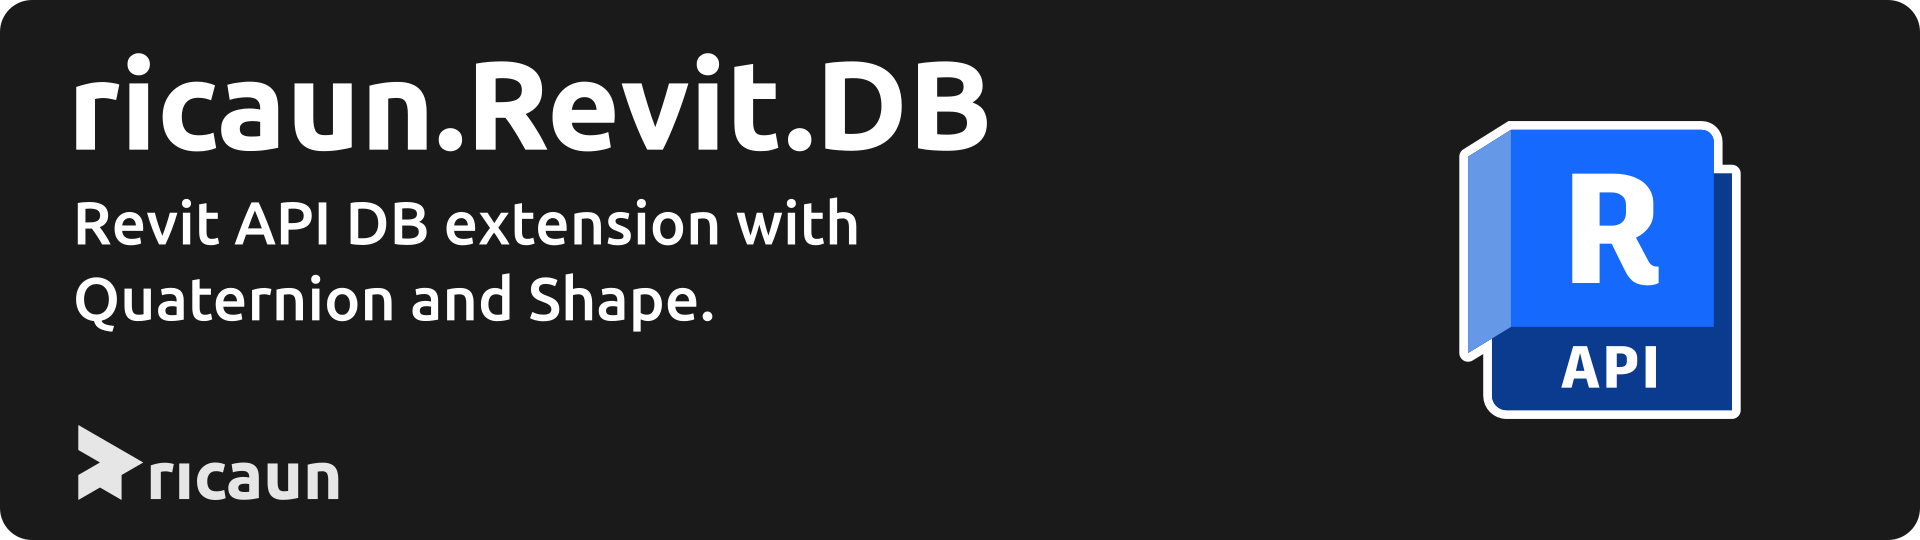
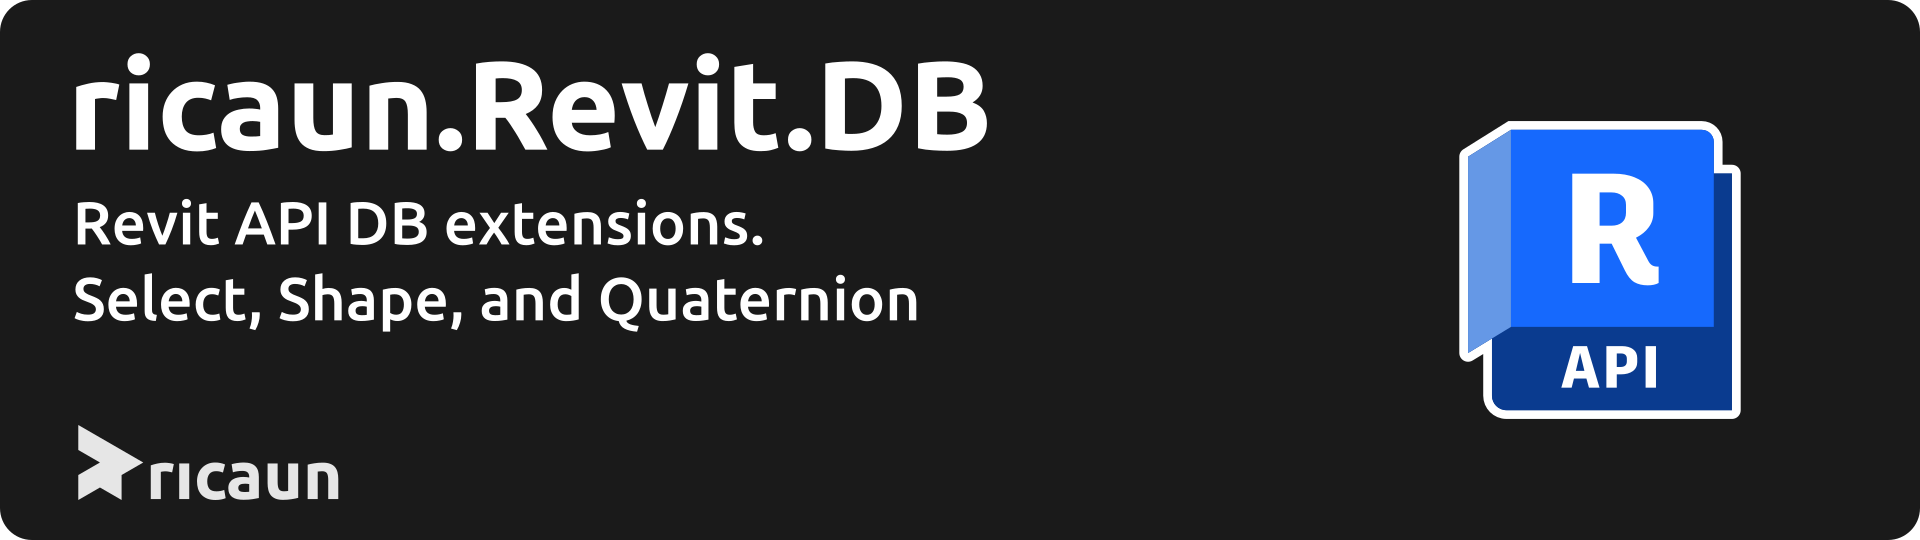
Update assets

Changed region(s): [[0.0312, 0.5037, 0.5, 0.6222], [0.375, 0.3556, 0.4688, 0.4741]]

diff --git a/README.md b/README.md
@@ -7,9 +7,9 @@
 [![Build](https://github.com/ricaun-io/ricaun.Revit.DB/actions/workflows/Build.yml/badge.svg)](https://github.com/ricaun-io/ricaun.Revit.DB/actions)
 [![Release](https://img.shields.io/nuget/v/ricaun.Revit.DB?logo=nuget&label=release&color=blue)](https://www.nuget.org/packages/ricaun.Revit.DB)
 
-[![ricaun.Revit.DB](https://raw.githubusercontent.com/ricaun/test-assets/main/assets/ricaun.Revit.DB.png)](https://github.com/ricaun-io/ricaun.Revit.DB)
+[![ricaun.Revit.DB](https://raw.githubusercontent.com/ricaun-io/ricaun.Revit.DB/refs/heads/develop/assets/ricaun.Revit.DB.png)](https://github.com/ricaun-io/ricaun.Revit.DB)
 
-Package with some libraries for Revit API like [Quaternion](ricaun.Revit.DB.Quaternion) and [Shape](ricaun.Revit.DB.Shape).
+Package with some libraries for Revit API DB extensions, [Select](ricaun.Revit.DB), [Shape](ricaun.Revit.DB.Shape), and [Quaternion](ricaun.Revit.DB.Quaternion).
 
 This project was generated by the [ricaun.AppLoader](https://ricaun.com/AppLoader/) Revit plugin, the test project use the [ricaun.RevitTest](https://ricaun.com/RevitTest) test framework.
 
